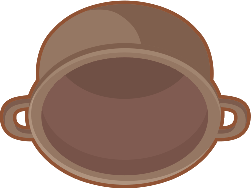
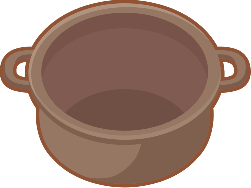
working on fan being th ecursor
got fan animated

diff --git a/Plugins/Pokeblocks/008_Cooking.rb b/Plugins/Pokeblocks/008_Cooking.rb
@@ -469,7 +469,7 @@ class CookingMixing
 		@colorOfBlocks = @results[0].color_name
 		@qualityOfBlocks = (@results[0].plus ? " +" : "")
 		
-		print "this will make #{@numberOfBlocks} #{@colorOfBlocks} pokeblocks#{@qualityOfBlocks}!"
+		#print "this will make #{@numberOfBlocks} #{@colorOfBlocks} pokeblocks#{@qualityOfBlocks}!"
 		#@results.each { |pb| pbGainPokeblock(pb) }
 		
 		decideBaseHue
@@ -499,7 +499,9 @@ class CookingMixing
 			break if @stageTimer <= 0
 			@stageTimer -= 1
 		end #loop do
-		print "Stirs completed: #{@stirsCompleted}"
+		#print "Stirs completed: #{@stirsCompleted}"
+		
+		#roll for possibility of getting extra pokeblocks based on @stirsCompleted
 		
 		#end cooking stage
 		pbEndScene
@@ -725,15 +727,41 @@ class CookingCooling
 		@sprites["candy_base_in_pot"].y = @sprites["pot"].y
 		@sprites["candy_base_in_pot"].z = 999999
 		@sprites["candy_base_in_pot"].color.set(@resultingBaseHue[0], @resultingBaseHue[1], @resultingBaseHue[2])
+		@sprites["panEdges"].z = 999999
+		
+		#(animname, framecount, framewidth, frameheight, frameskip)
+		@sprites["fan"] = AnimatedSprite.new("Graphics/Pictures/Pokeblock/Candy Making/fan",8,276,336,2,@viewport)
+		@sprites["fan"].x = Graphics.width/2 - @sprites["fan"].width/2
+		@sprites["fan"].y = Graphics.height/2 - @sprites["fan"].height/2
+		@sprites["fan"].z = 999999
 		
 		pbmain
 	end #def initialize
 	
 	def pbmain
 		pbFadeInAndShow(@sprites) { pbUpdateSpriteHash(@sprites) }
+		
+		pbWait(Graphics.frame_rate*1)
+		
+		#flip pot and mixture upside down
+		@sprites["pot"].angle = 180
+		@sprites["pot"].x += @sprites["pot"].width
+		@sprites["pot"].y += @sprites["pot"].height
+		@sprites["candy_base_in_pot"].visible = false
+		
+		#change pan bottom to color of mixture
+		@sprites["panBottom"].color.set(@resultingBaseHue[0], @resultingBaseHue[1], @resultingBaseHue[2])
+		
+		pbUpdateSpriteHash(@sprites)
+		
 		loop do
 			Graphics.update
 			pbUpdateSpriteHash(@sprites)
+			
+			#only play when holding down left click
+			#@sprites["fan"].play
+			#make fan follow cursor
+
 		end #loop do
 	end
 end #class CookingCooling
